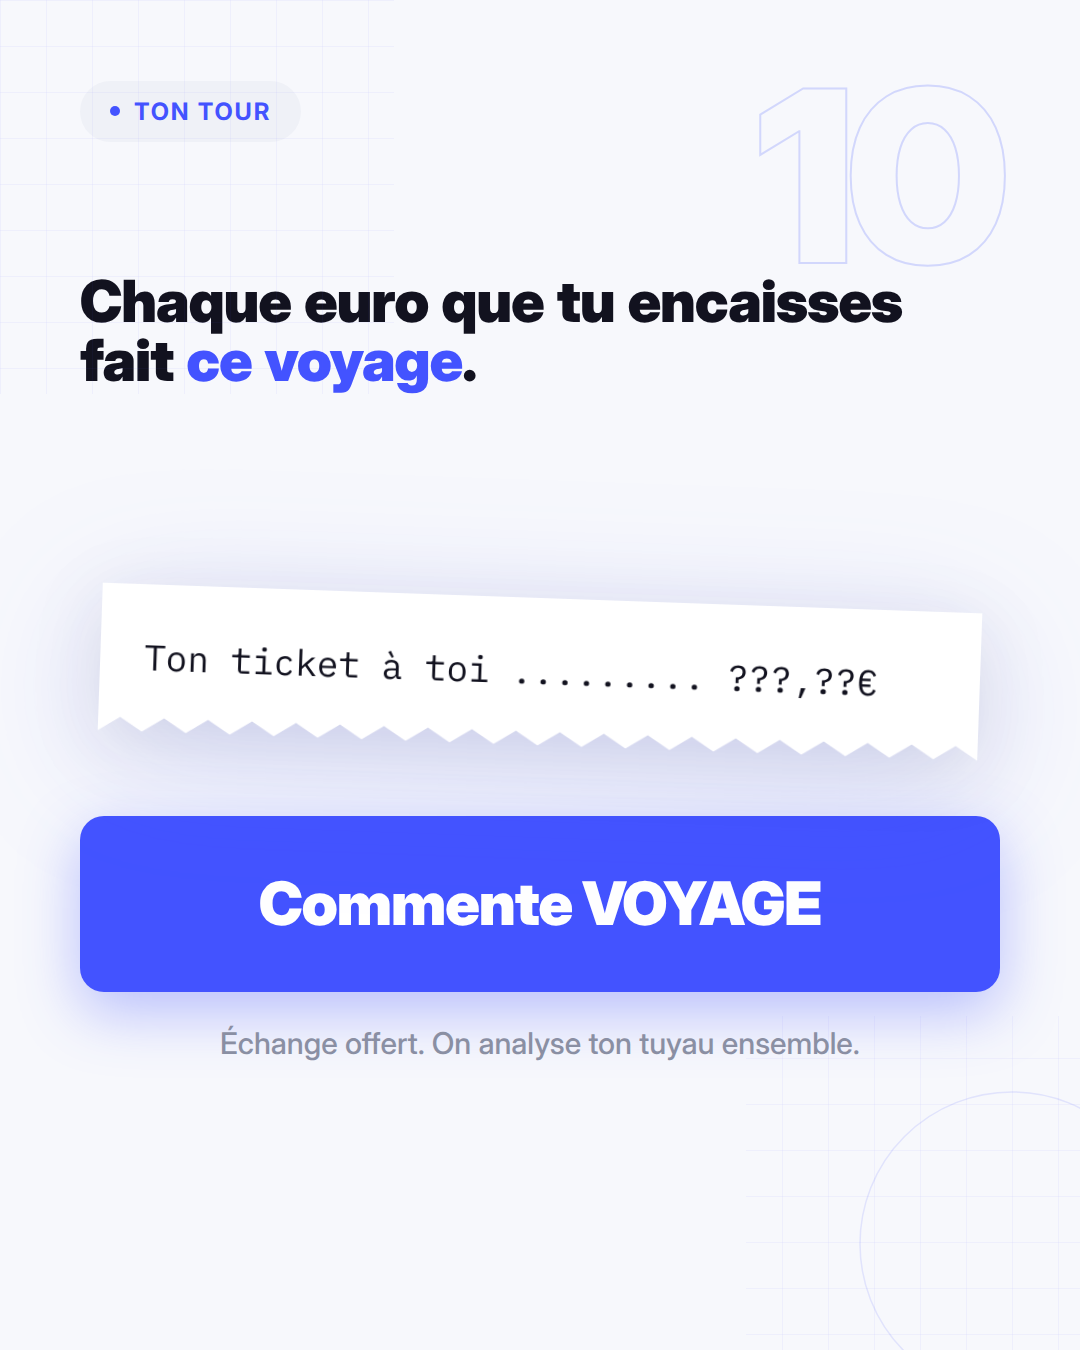
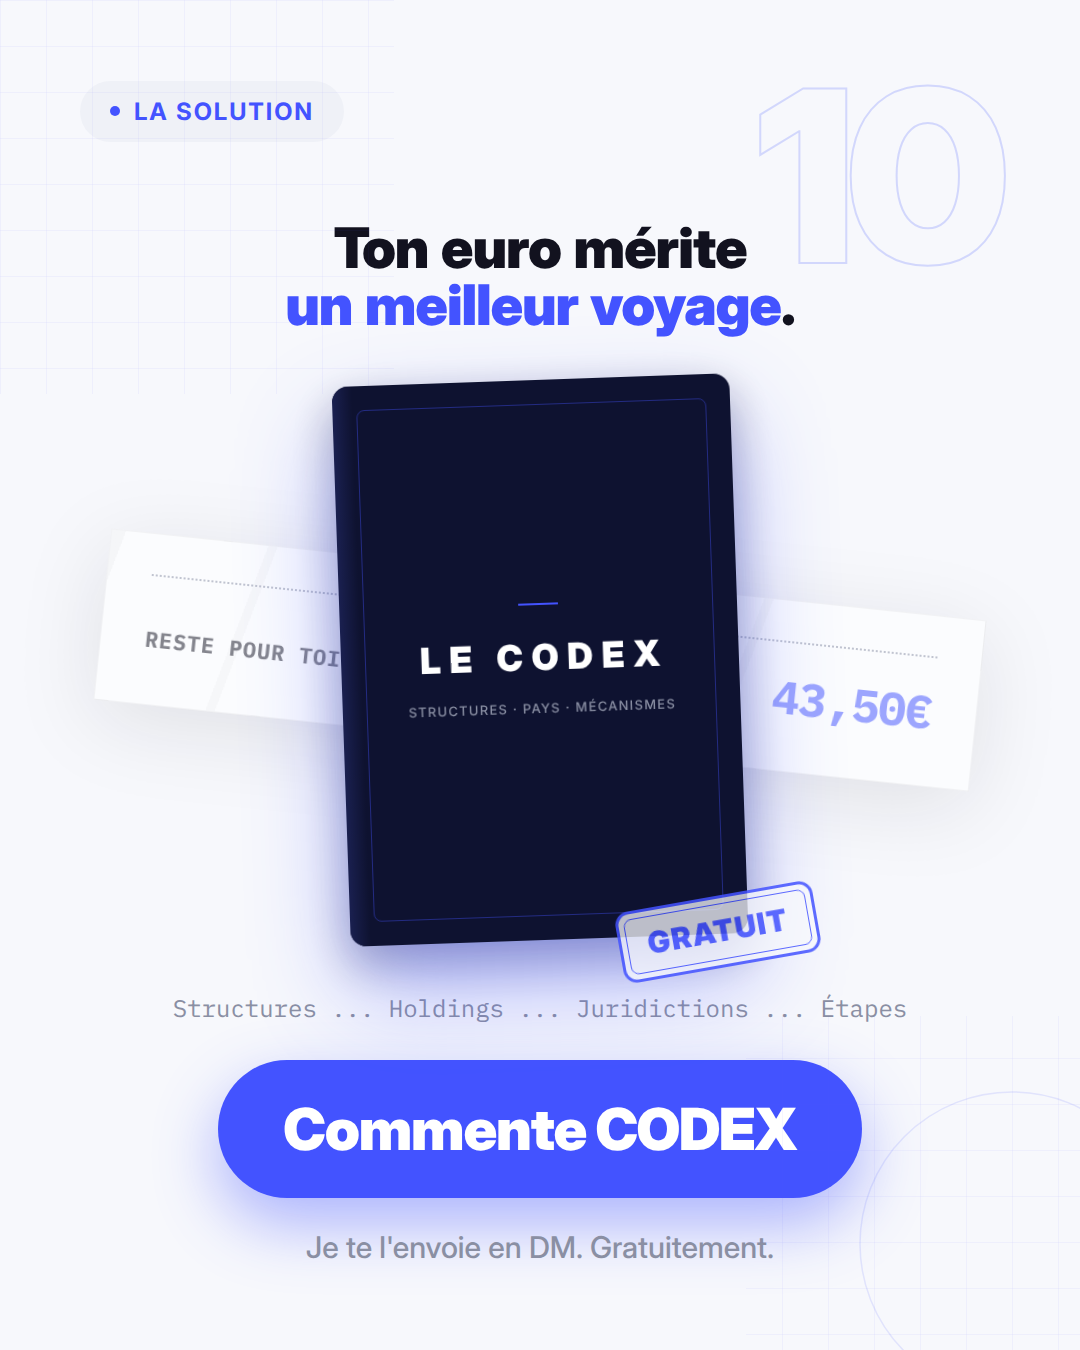
Slide 10 du deck euro : LE CODEX comme objet recu
Livre ferme en perspective (rotateY 6deg + rotate -2deg), couverture
bleu nuit #0E1230 avec cadre interieur bleu a 40%, tranche en degrade
sur le bord gauche, halo bleu genereux. Derriere lui, le ticket des
slides precedentes a 50% d'opacite, plis suggeres par de fines bandes
diagonales, montrant « RESTE POUR TOI 43,50€ » : le probleme relegue
au fond, la solution devant. Bouton en radius plein pour trancher avec
les cards carrees du reste du carrousel.

Deux calages : le libelle du ticket de fond etait coupe en plein mot
par le livre (ramene a 22px pour tenir entierement a sa gauche), et le
papier blanc sur #F7F8FC n'a que 8 unites d'ecart — invisible a 50%
d'opacite, il lui fallait un bord et une ombre plus franche pour se
lire comme un objet.

Le CTA passe de « Commente VOYAGE » a « Commente CODEX » : le
carrousel pointe desormais vers l'asset gratuit.

Verifie a 300px : « LE CODEX » et « Commente CODEX » restent lisibles.

Claude-Session: https://claude.ai/code/session_01JgjaVc8GDMA4sZRNpbXpxq

diff --git a/carrousel/src/style.css b/carrousel/src/style.css
@@ -396,3 +396,78 @@ html, body {
 /* séparateurs pointillés de ticket dans les listes */
 .ticks--dot .tick { border-bottom: 2px dotted var(--grey); }
 .mono { font-family: 'IBM Plex Mono', monospace; font-weight: 700; letter-spacing: -0.02em; }
+
+/* ============================================================
+   SLIDE 10 — LE CODEX, l'objet qu'on reçoit
+   ============================================================ */
+.codex-scene {
+  position: relative; height: 560px;
+  display: flex; align-items: center; justify-content: center;
+  perspective: 1200px;
+}
+
+/* le ticket des slides précédentes, relégué en arrière-plan */
+.codex-bg {
+  position: absolute; top: 50%; left: 50%;
+  width: 880px; transform: translate(-50%, -50%) rotate(6deg);
+  opacity: 0.5;
+  background: #FFFFFF;
+  /* plis suggérés par de fines bandes diagonales */
+  background-image: linear-gradient(105deg,
+      rgba(18,18,31,0.05) 0 1.5%, transparent 1.5% 17%,
+      rgba(18,18,31,0.04) 17% 18%, transparent 18% 45%,
+      rgba(18,18,31,0.05) 45% 46%, transparent 46% 71%,
+      rgba(18,18,31,0.04) 71% 72%, transparent 72%);
+  padding: 40px 44px 44px;
+  font-family: 'IBM Plex Mono', monospace; color: var(--ink);
+  border: 1px solid rgba(18, 18, 31, 0.08);
+  filter: drop-shadow(0 18px 42px rgba(18, 18, 31, 0.20));
+}
+.codex-bg .rc-total-lbl { font-size: 22px; }
+.codex-bg .rc-total-val { font-size: 46px; }
+
+/* le livre */
+.codex-holder { position: relative; width: 400px; }
+.codex {
+  position: relative; width: 400px; height: 560px;
+  transform: rotateY(6deg) rotate(-2deg);
+  border-radius: 16px; background: #0E1230;          /* bleu nuit : seule extension de palette */
+  box-shadow: 0 44px 96px rgba(67, 83, 255, 0.42),
+              0 18px 44px rgba(14, 18, 48, 0.32);
+  display: flex; flex-direction: column;
+  align-items: center; justify-content: center;
+}
+.codex::before {                                      /* cadre intérieur */
+  content: ''; position: absolute; inset: 24px;
+  border: 1px solid rgba(67, 83, 255, 0.40); border-radius: 8px;
+}
+.codex-spine {                                        /* tranche visible côté gauche */
+  position: absolute; left: 0; top: 0; bottom: 0; width: 20px;
+  border-radius: 16px 0 0 16px;
+  background: linear-gradient(90deg, #1A2050, #0E1230);
+}
+.codex-rule { width: 40px; height: 2px; background: var(--blue); margin-bottom: 30px; }
+.codex-title {
+  font-family: 'Inter', sans-serif; font-weight: 900; font-size: 36px;
+  color: #FFFFFF; letter-spacing: 0.25em; text-indent: 0.25em;
+}
+.codex-sub {
+  margin-top: 22px; font-family: 'Inter', sans-serif; font-weight: 500;
+  font-size: 13px; color: var(--grey); letter-spacing: 0.10em; text-indent: 0.10em;
+}
+
+/* ligne de ticket sous le livre */
+.codex-line {
+  margin-top: 52px; text-align: center;
+  font-family: 'IBM Plex Mono', monospace; font-size: 24px;
+  color: var(--grey);
+}
+
+/* bouton géant : radius plein, pour trancher avec les cards carrées */
+.cta-pill {
+  display: block; width: 70%; margin: 36px auto 0;
+  background: var(--blue); border-radius: 999px;
+  padding: 34px 40px; text-align: center;
+  font-size: 58px; font-weight: 900; color: #FFFFFF; letter-spacing: -0.02em;
+  box-shadow: 0 26px 64px rgba(67, 83, 255, 0.42);
+}

diff --git a/carrousel/slides/euro/slide-10.html b/carrousel/slides/euro/slide-10.html
@@ -20,23 +20,39 @@
 </svg>
   <div class="num">10</div>
 
-      <div class="head"><span class="badge">TON TOUR</span></div>
-      <h1 class="title" style="font-size:58px">Chaque euro que tu encaisses<br>fait <span class="blue">ce voyage</span>.</h1>
-      <div class="zone">
-        
-<div class="frag-wrap bleed">
-  <div class="frag" style="clip-path:polygon(0% 0%, 100% 0%, 100.000% 100%, 97.500% calc(100% - 14px), 95.000% 100%, 92.500% calc(100% - 14px), 90.000% 100%, 87.500% calc(100% - 14px), 85.000% 100%, 82.500% calc(100% - 14px), 80.000% 100%, 77.500% calc(100% - 14px), 75.000% 100%, 72.500% calc(100% - 14px), 70.000% 100%, 67.500% calc(100% - 14px), 65.000% 100%, 62.500% calc(100% - 14px), 60.000% 100%, 57.500% calc(100% - 14px), 55.000% 100%, 52.500% calc(100% - 14px), 50.000% 100%, 47.500% calc(100% - 14px), 45.000% 100%, 42.500% calc(100% - 14px), 40.000% 100%, 37.500% calc(100% - 14px), 35.000% 100%, 32.500% calc(100% - 14px), 30.000% 100%, 27.500% calc(100% - 14px), 25.000% 100%, 22.500% calc(100% - 14px), 20.000% 100%, 17.500% calc(100% - 14px), 15.000% 100%, 12.500% calc(100% - 14px), 10.000% 100%, 7.500% calc(100% - 14px), 5.000% 100%, 2.500% calc(100% - 14px), 0.000% 100%)">
-    
-    <div class="frag-line">Ton ticket à toi ......... ???,??€</div>
-  </div>
-</div>
-        <div class="stat stat--blue" style="padding:52px;text-align:center;margin-top:70px">
-          <div style="font-size:60px;font-weight:900;color:#FFFFFF;letter-spacing:-0.02em">Commente VOYAGE</div>
+      <div class="head"><span class="badge">LA SOLUTION</span></div>
+
+      <h1 class="title" style="text-align:center;font-size:56px;margin-top:78px">
+        Ton euro mérite<br><span class="blue">un meilleur voyage</span>.
+      </h1>
+
+      <div class="codex-scene" style="margin-top:46px">
+        <div class="codex-bg bleed">
+          <div class="rc-dots" style="margin:0 0 24px"></div>
+          <div class="rc-total">
+            <span class="rc-total-lbl">RESTE POUR TOI</span>
+            <span class="rc-total-val">43,50€</span>
+          </div>
         </div>
-        <p class="muted" style="font-size:30px;font-weight:500;margin-top:34px;text-align:center">
-          Échange offert. On analyse ton tuyau ensemble.
-        </p>
+
+        <div class="codex-holder">
+          <div class="codex">
+            <div class="codex-spine"></div>
+            <div class="codex-rule"></div>
+            <div class="codex-title">LE CODEX</div>
+            <div class="codex-sub">STRUCTURES · PAYS · MÉCANISMES</div>
+          </div>
+          <span class="stamp-box" style="right:-78px;bottom:-28px;transform:rotate(-10deg)">GRATUIT</span>
+        </div>
       </div>
+
+      <div class="codex-line">Structures ... Holdings ... Juridictions ... Étapes</div>
+
+      <span class="cta-pill">Commente CODEX</span>
+
+      <p class="muted" style="text-align:center;margin-top:32px;font-size:30px;font-weight:500">
+        Je te l'envoie en DM. Gratuitement.
+      </p>
 </div>
 </body>
 </html>

diff --git a/carrousel/src/slides-euro.js b/carrousel/src/slides-euro.js
@@ -254,19 +254,41 @@ module.exports = { DECOR, slides: [
       <p class="chute">L'architecture fait tout.<br>L'improvisation <span class="blue">détruit tout</span>.</p>`
   },
 
-  /* ================= 10 · CTA ================= */
+  /* ================= 10 · CTA — LE CODEX ================= */
   {
     main: `
-      ${badge('TON TOUR')}
-      <h1 class="title" style="font-size:58px">Chaque euro que tu encaisses<br>fait <span class="blue">ce voyage</span>.</h1>
-      <div class="zone">
-        ${frag({ lines: [tline('Ton ticket à toi', '???,??€', 34)] })}
-        <div class="stat stat--blue" style="padding:52px;text-align:center;margin-top:70px">
-          <div style="font-size:60px;font-weight:900;color:#FFFFFF;letter-spacing:-0.02em">Commente VOYAGE</div>
+      ${badge('LA SOLUTION')}
+
+      <h1 class="title" style="text-align:center;font-size:56px;margin-top:78px">
+        Ton euro mérite<br><span class="blue">un meilleur voyage</span>.
+      </h1>
+
+      <div class="codex-scene" style="margin-top:46px">
+        <div class="codex-bg bleed">
+          <div class="rc-dots" style="margin:0 0 24px"></div>
+          <div class="rc-total">
+            <span class="rc-total-lbl">RESTE POUR TOI</span>
+            <span class="rc-total-val">43,50€</span>
+          </div>
         </div>
-        <p class="muted" style="font-size:30px;font-weight:500;margin-top:34px;text-align:center">
-          Échange offert. On analyse ton tuyau ensemble.
-        </p>
-      </div>`
+
+        <div class="codex-holder">
+          <div class="codex">
+            <div class="codex-spine"></div>
+            <div class="codex-rule"></div>
+            <div class="codex-title">LE CODEX</div>
+            <div class="codex-sub">STRUCTURES · PAYS · MÉCANISMES</div>
+          </div>
+          ${stampBox('GRATUIT', 'right:-78px;bottom:-28px;transform:rotate(-10deg)')}
+        </div>
+      </div>
+
+      <div class="codex-line">Structures ... Holdings ... Juridictions ... Étapes</div>
+
+      <span class="cta-pill">Commente CODEX</span>
+
+      <p class="muted" style="text-align:center;margin-top:32px;font-size:30px;font-weight:500">
+        Je te l'envoie en DM. Gratuitement.
+      </p>`
   }
 ]};
